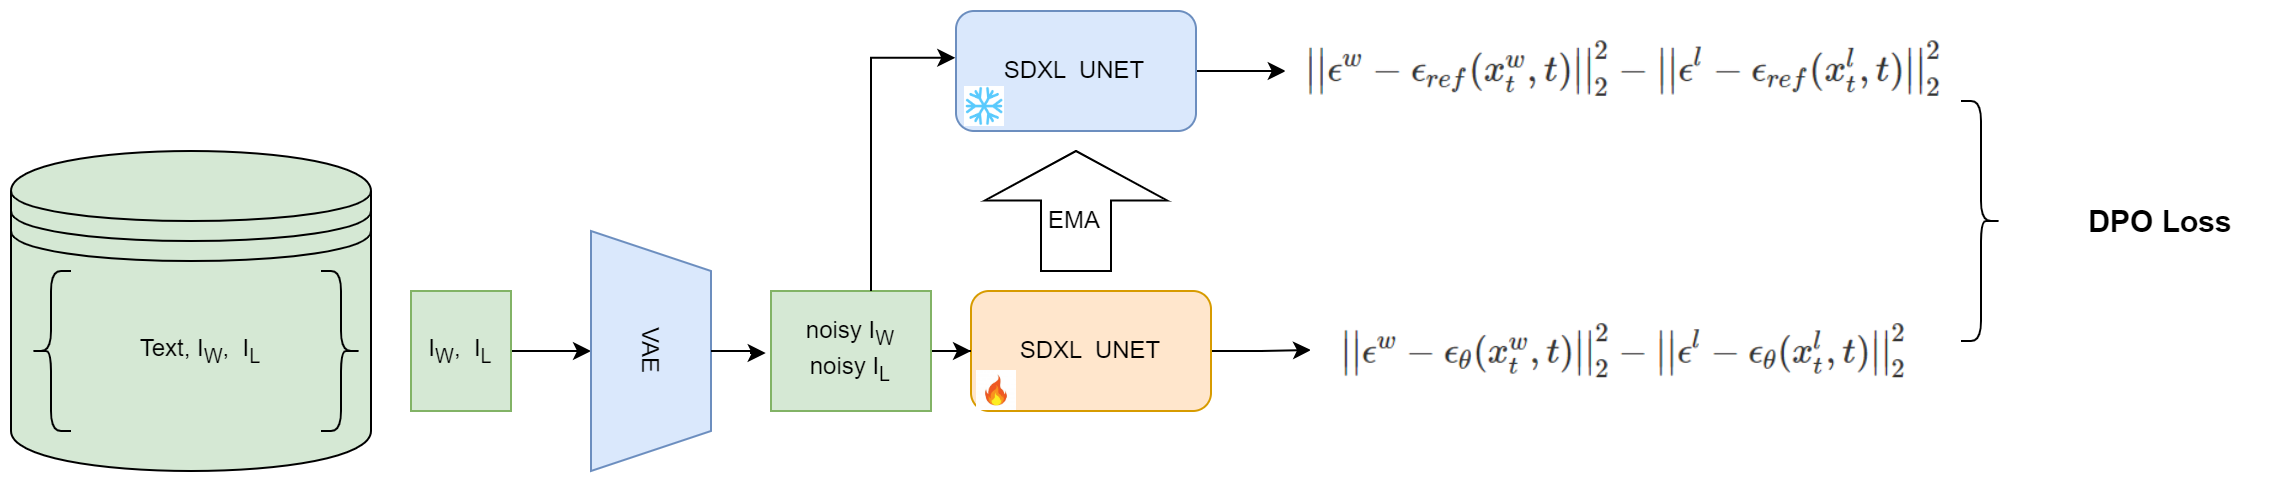
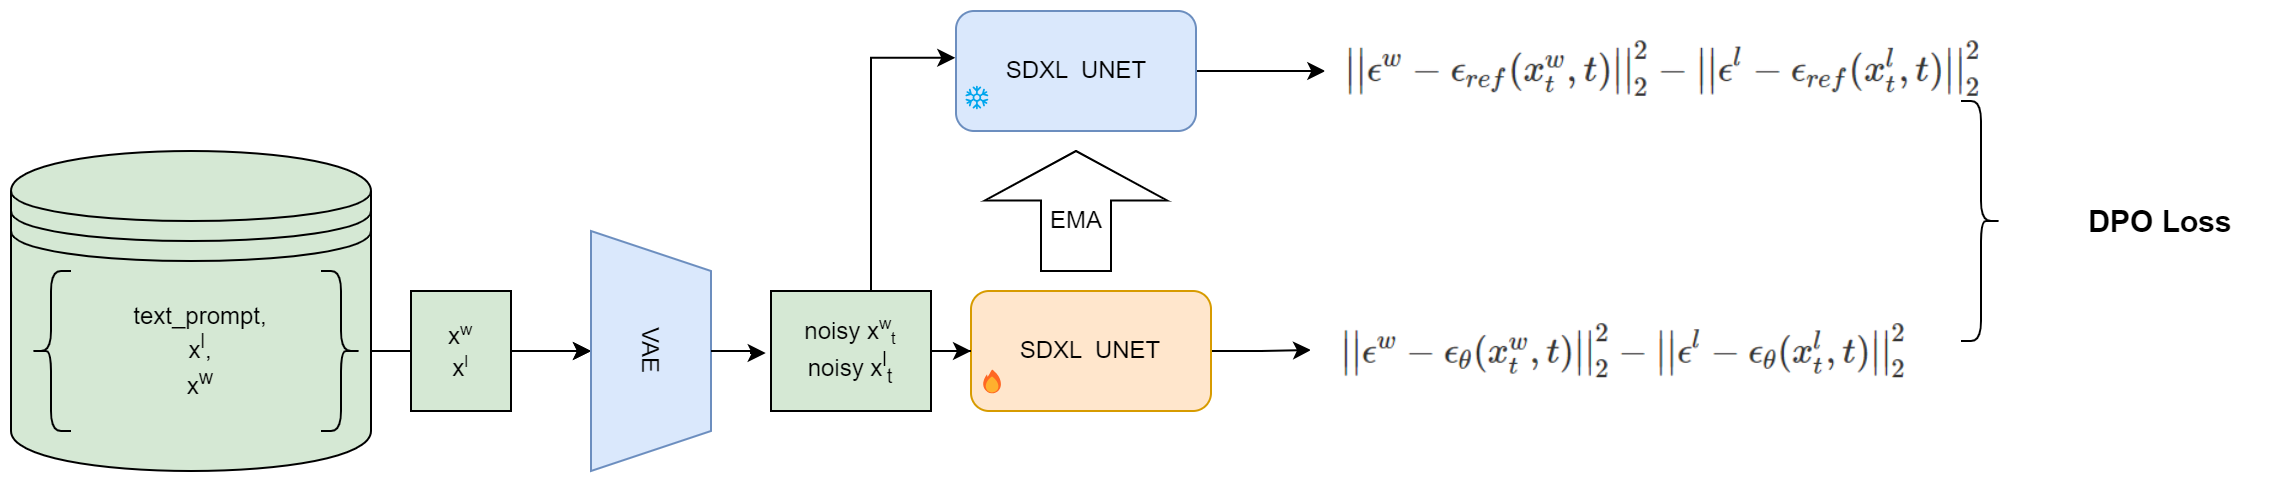
update blog

diff --git a/_posts/2024-01-20-post8.md b/_posts/2024-01-20-post8.md
@@ -7,6 +7,7 @@ tags: ["Diffusion", "Sparks"]
 > WIP 🚧
 
 ### TL; DR
+
 - Fine-tuning SDXL UNET with high-quality datasets can enhance the AES score of generated images, but there is a limitation to this improvement. Specifically, you can easily upgrade the AES score of SDXL-base, which is initially aesthetically evaluated as 6.0, to reach a score of 6.7. However, a further enhancement in the AES score becomes significantly limited, even tuning on a high-quality dataset whose average AES score exceed 7.5 with many steps.
 
 - High-quality fine-tuning can negatively affect text fidelity.
@@ -48,4 +49,4 @@ Recently, in [this](https://arxiv.org/abs/2401.10020) paper, Meta researchers sh
 Following the idea of Self-Rewarding, I change the SDXL-DPO pipeline by introducing a slowly updated reference UENT based on EMA.
 
 ![rewarding_pipeline](https://raw.githubusercontent.com/NormXU/NormXU.github.io/main/_data/resources/blog/8/pipeline.png)
-Figure 1. A Self-Reward SDXL pipeline with EMA updated reference UNET; $$I_W$$ and $$I_L$$ represents a preferred image and a non-preferred image with the same text prompt.
+**Figure 1.**  A Self-Reward SDXL pipeline with EMA updated reference UNET; $$x^w$$ and $$x^l$$ represents a preferred image and a non-preferred image with the same text prompt. $$x^w_t$$, $$x^l_t$$ means adding noises to $$x^w$$ and $$x^l$$ at a random timestep $$t$$ respectively;
